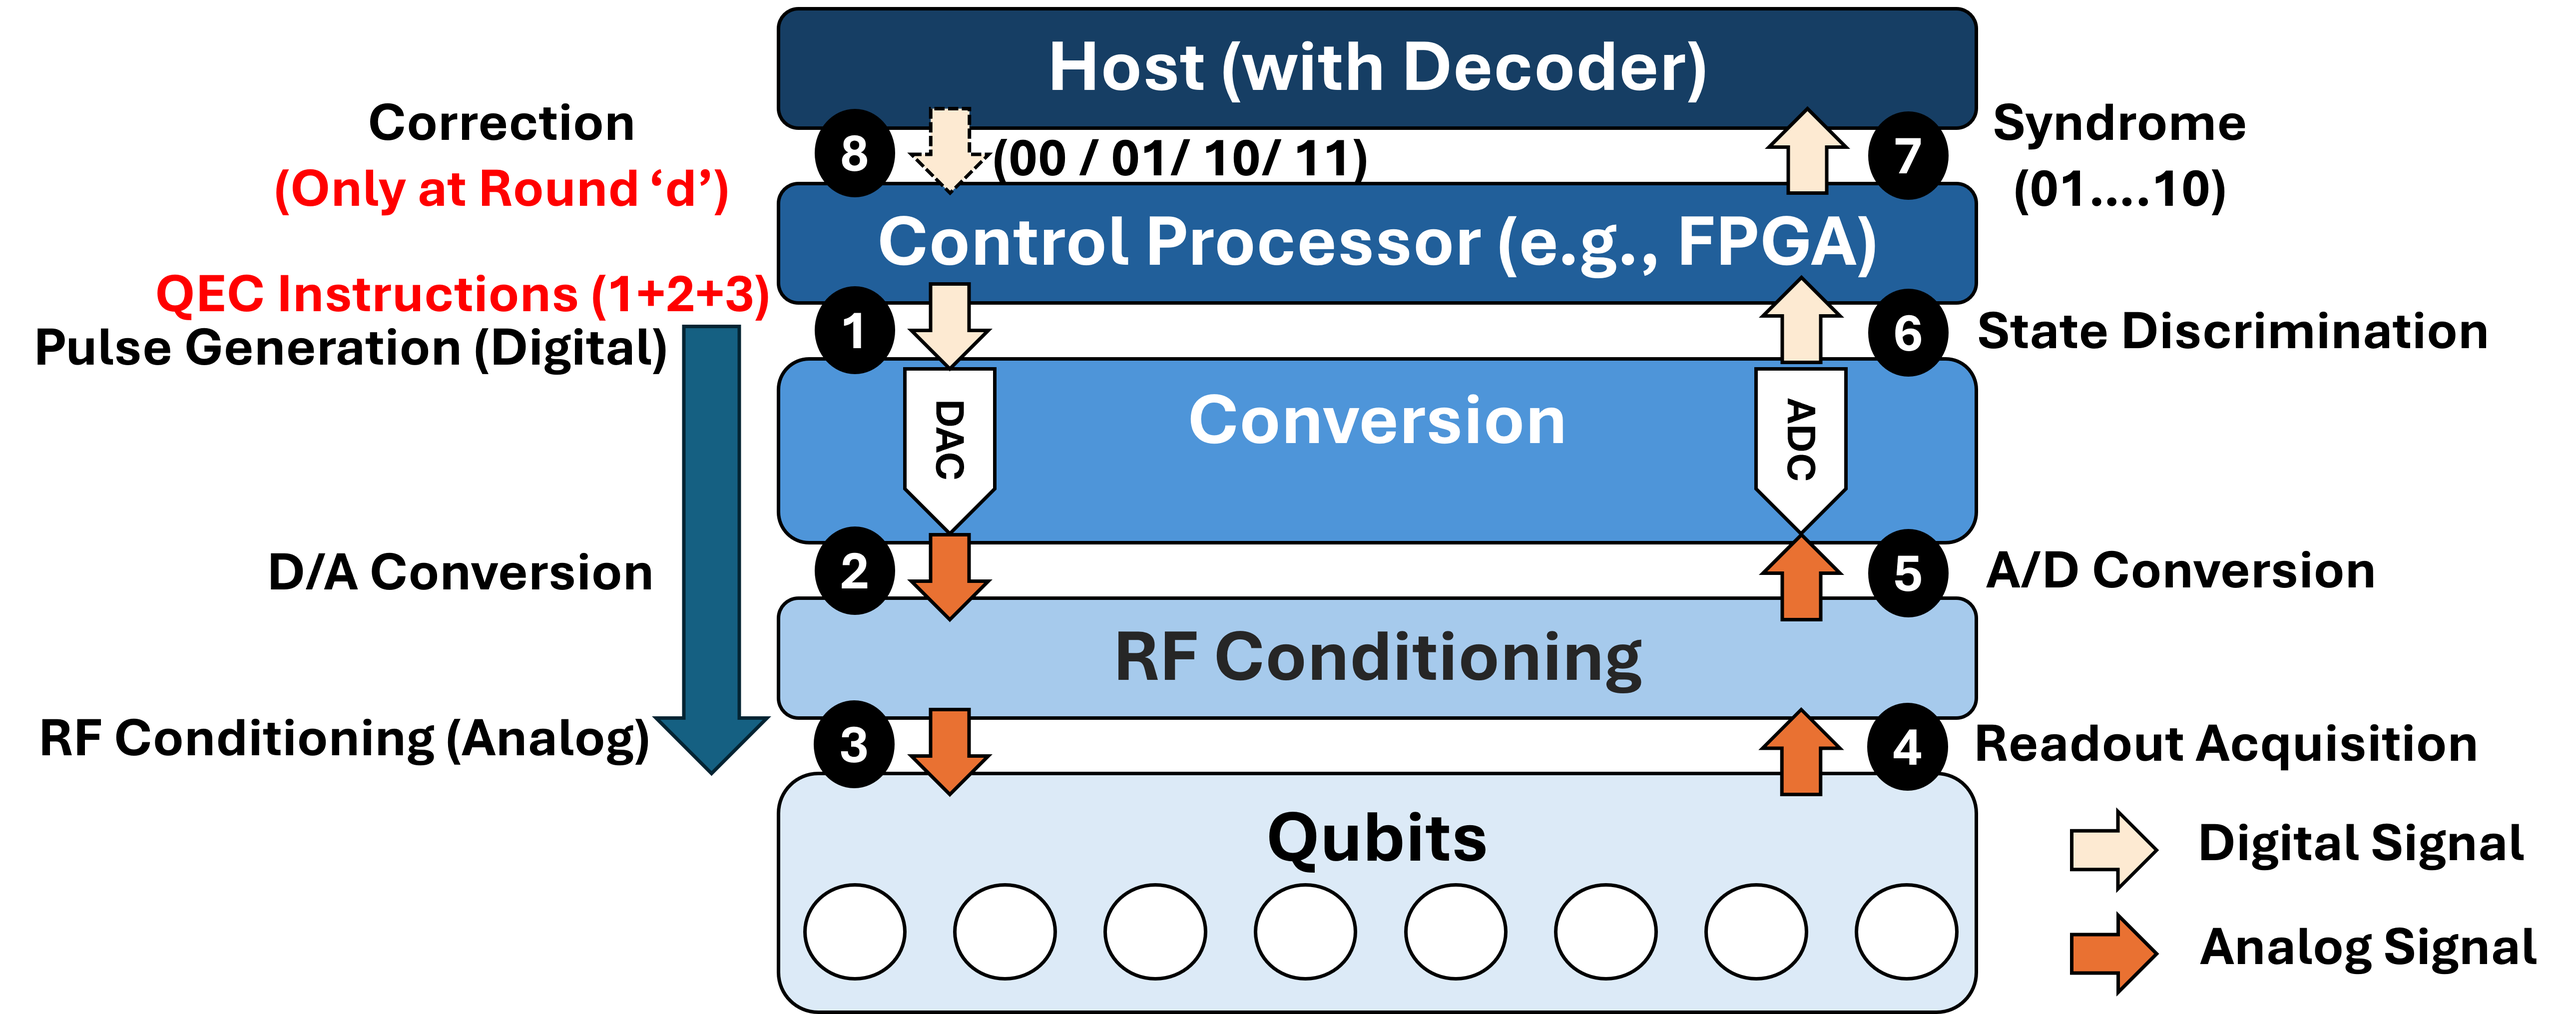
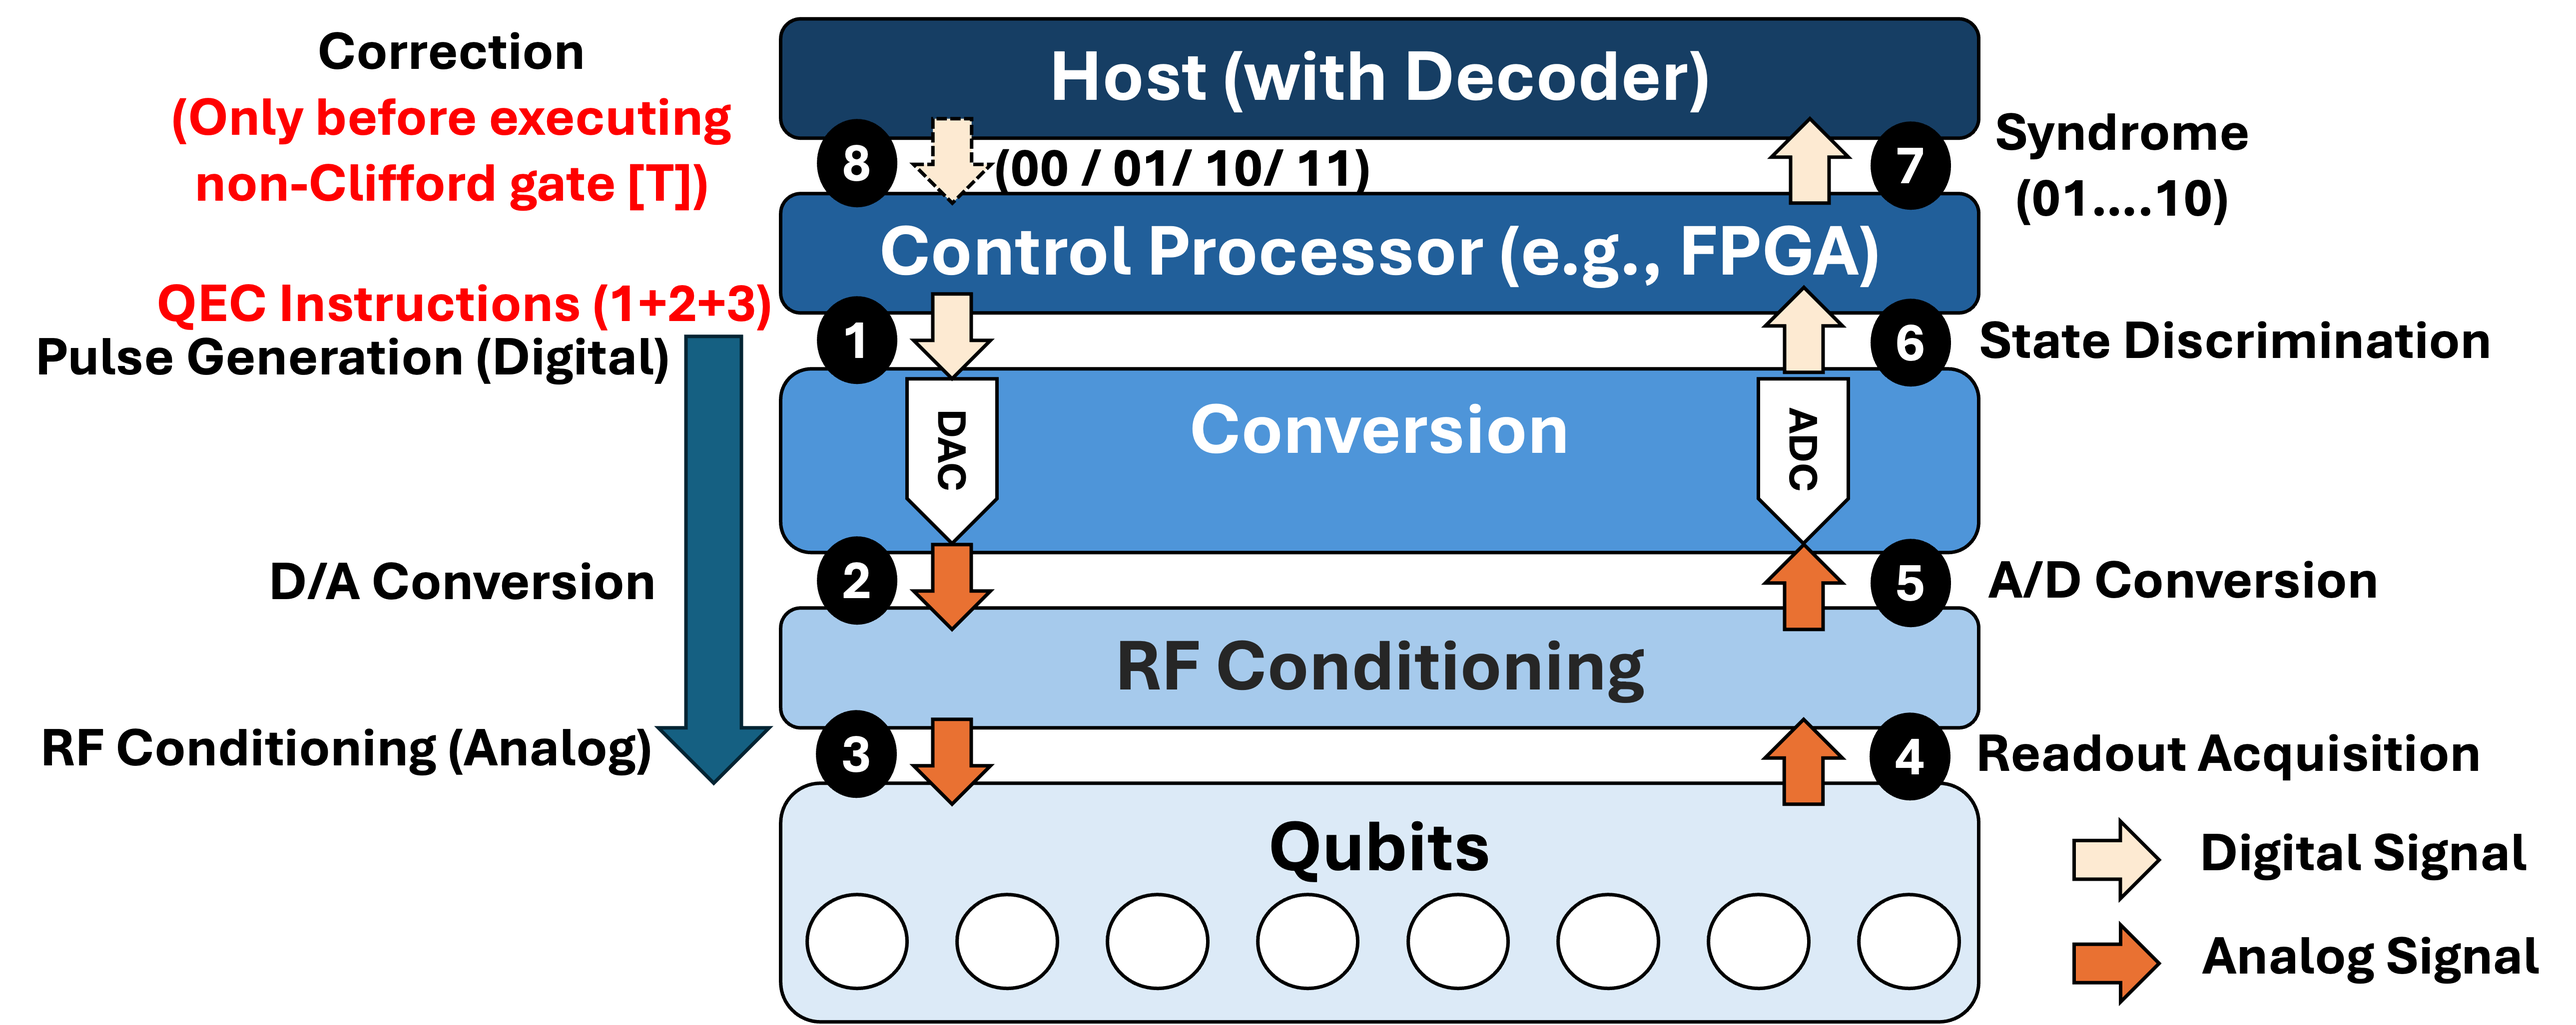
2025-12-03 Pauli Tracking figure update

diff --git a/00_Background/README.md b/00_Background/README.md
@@ -93,7 +93,7 @@ However, maintaining this loop is a strict race against time. On the existing de
 - Step ❼. Syndrome Transmission (Included in 1us Loop): The extracted syndrome bits (e.g., 01...10) are **transmitted immediately** from the FPGA to the Host (Decoder) via a low-latency interface (e.g., PCIe) **every round**.
 - Step ❽. Correction (Pauli Frame Update) (Virtual/Deferred): The Decoder calculates error locations. Instead of sending physical correction commands every round (which causes latency), the Decoder **internally updates the Pauli Frame** (software tracking). **[4, 5]**. 
     - **Correction Data Format**: The error state for **each data qubit** is maintained as a **2-bit code**: 00 (No Error), 01 (X Error), 10 (Z Error), or 11 (Y Error).
-    - **Deferred Transmission**: Crucially, this correction data is **NOT transmitted to the FPGA every round**. It accumulates in the software Pauli Frame and is sent only when strictly necessary—typically at **Round $d$** for the final logical measurement or before executing non-Clifford gates (e.g., T-gates).
+    - **Deferred Transmission**: Crucially, this correction data is **NOT transmitted to the FPGA every round**. It accumulates in the software Pauli Frame and is sent only when strictly necessary—before executing non-Clifford gates (e.g., T-gates).
 
 # 3. Decoding Architecture: Pauli Tracking [3-5] & Time Axis
 
@@ -108,7 +108,7 @@ To satisfy the strict **1 µs latency budget**, we avoid applying physical corre
 
 **II. The Time Axis: Waiting for $d$ Rounds**
 
-Single-shot measurements are unreliable due to physical measurement errors. Therefore, we do not make a final decision based on a single cycle.
+Single-shot measurements are unreliable due to physical measurement errors. Therefore, we do not make a final decision based on a single cycle. We make a final decision based on a single **logical cycle**.
 - **Accumulation**: We repeat the QEC cycle for $d$ rounds (where $d$ is the code distance of Surface Code).
 - **Spacetime Volume**: The Host/Decoder collects the syndrome history over these $d$ rounds, creating a 3D spacetime decoding graph ($2D$ space $+ 1D$ time). **$m = (d - 1)$ rounds are required to match the code's error correction capability [8].**
     - **Space Error**: Data qubit errors
@@ -117,8 +117,11 @@ Single-shot measurements are unreliable due to physical measurement errors. Ther
 - **Delayed Correction**: The Decoder solves the matching problem (MWPM) utilizing **(X/Z) decoding graph** across this entire window to identify the most probable error chain.
 - **Application: Delayed Correction Strategy**
     - **Rounds $1 \dots (d-1)$ (Accumulation)**: The syndrome data is streamed to the Host (Step ❼) every round. The Decoder identifies errors and updates the **Pauli Frame** in software. **Crucially, Step ❽ (Physical Feedback) does NOT occur during these rounds.** No physical corrections are applied to the qubits, and the FPGA proceeds to the next round immediately. 
-    - **Round $d$ (Final Application & Validation)**: Upon the final measurement of the data qubits, the **accumulated Pauli Frame** is applied to the raw measurement results. **Only at this stage is Step ❽ effectively realized** (as a software correction on the final data) to compute the corrected logical outcome and verify if the initial state was preserved.
-- **Summary**: While syndrome data is sent to the Host every round (Step ❼) to build the full spacetime syndrome history, the Decoder determines the final correction (Step ❽) only after accumulating $d$ rounds of data.
+    - **Round $d$ (Accumulation (Pauli-Tracking) 'or' Real Correction on Physical Data Qubits before Executing non-Clifford Gates (e.g., T-gates))**: Upon the final measurement of the data qubits, the **accumulated Pauli Frame** is applied to the raw measurement results. **Only at this stage is Step ❽ effectively realized**-physical corrections are applied to the data qubits only before executing non-Clifford gates.
+
+![Pauli_Tracking_Timeline](images/Pauli_Tracking_Timeline.png)
+
+- **Summary**: While syndrome data is sent to the Host every round (Step ❼) to build the full spacetime syndrome history, the Decoder determines the final correction (Step ❽) only after accumulating $d$ rounds of data. **Final correction has two cases (Pauli Tracking (Clifford Gates) 'or' Real Correction on Physical Data Qubits (before non-Clifford Gates))**
 
 # 4. A Study on Real-time Decoding
 
